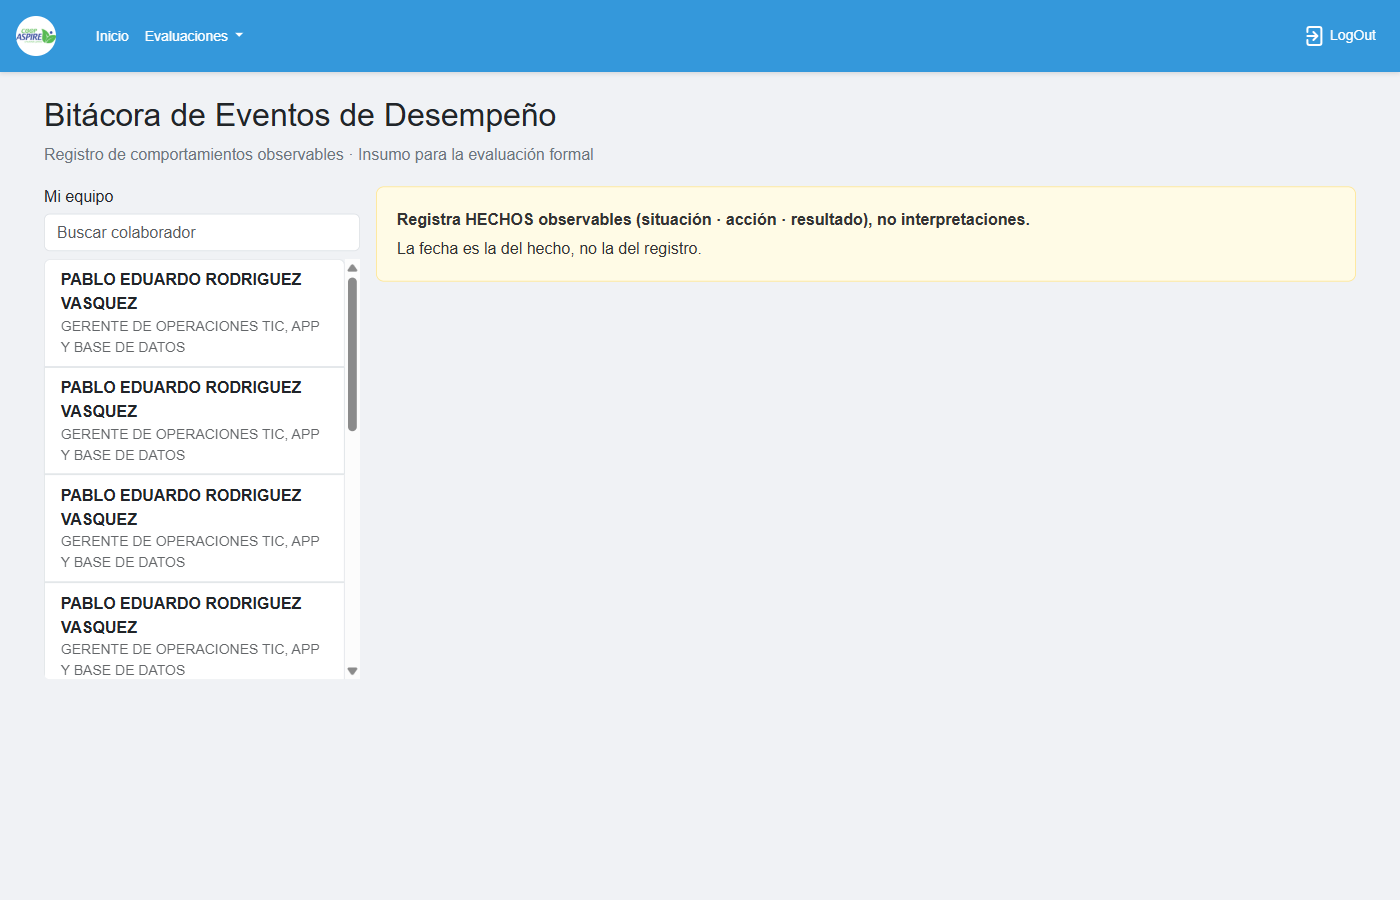
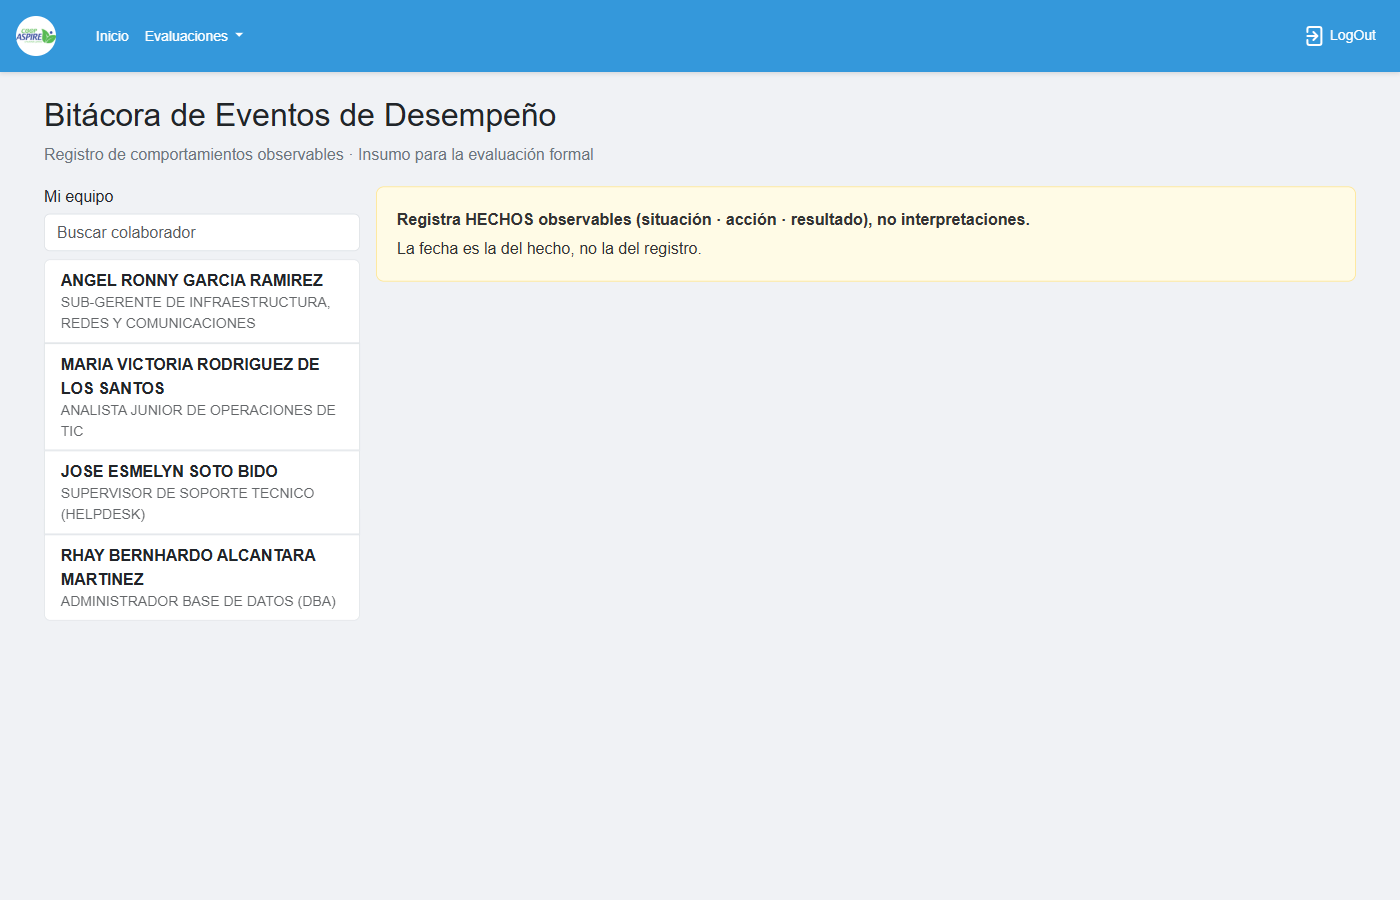
fix(bitacora): equipo sin duplicados ni el propio supervisor; enlace del reporte para supervisores; auditoria Playwright 22/22
La vista Empleados repite filas por secuencial (Pablo aparecia 5 veces en su
propio equipo). El menu Reportes es solo admin: el supervisor entra por
Evaluaciones -> Reporte de mi Bitacora. Auditoria contra
evaluacionempleado-prueba (main.f938525e) con prodriguez: 22 verificaciones en
verde, incluido el resumen dentro de la evaluacion y el reporte con detalle.

Claude-Session: https://claude.ai/code/session_01B2KT1RPvarE3BHkGAT2y8J

Changed region(s): [[0.0307, 0.28, 0.2764, 0.7467]]

diff --git a/e2e/bitacora-eventos.spec.js b/e2e/bitacora-eventos.spec.js
@@ -194,8 +194,12 @@ test('Bitácora de Eventos — Fase 3', async ({ page }) => {
   const fueEval = await navMenu(page, 'Evaluaciones', 'Evaluar Equipo');
   await page.waitForTimeout(3000); await cerrarSwal(page);
   if (fueEval) {
-    const card = page.locator('app-card-empleado, .card').filter({ hasText: new RegExp(COLAB, 'i') }).first();
-    const btnEval = card.locator('button').filter({ hasText: /Evaluar|Continuar|Ver/i }).first();
+    const card = page.locator('app-card-empleado, table tbody tr').filter({ hasText: new RegExp(COLAB, 'i') }).first();
+    for (let i = 0; i < 20 && await card.count() === 0; i++) { await page.waitForTimeout(1000); }
+    const btnEval = card.locator('button').filter({ hasText: /Evaluar/i }).first();
+    for (let i = 0; i < 15 && await btnEval.count() === 0; i++) { await page.waitForTimeout(1000); }
+    await shot(page, 'evaluar-equipo');
+    if (await btnEval.count() === 0) { nota(`La tarjeta de ${COLAB} no muestra "Evaluar Empleado" (estado de la evaluación no editable por el supervisor)`); }
     if (await btnEval.count() > 0) {
       await btnEval.click(); await page.waitForTimeout(5000); await cerrarSwal(page);
       const resumenes = page.locator('app-bitacora-resumen');
@@ -210,6 +214,29 @@ test('Bitácora de Eventos — Fase 3', async ({ page }) => {
       await cerrar.click().catch(() => null); await page.waitForTimeout(800);
     } else { nota('No se encontró el botón de evaluar del colaborador en Evaluar Equipo; se omite la verificación del resumen'); }
   }
+
+  // 8b. Reporte de bitácora (menú Reportes)
+  let fueRep = await navMenu(page, 'Evaluaciones', 'Reporte de mi Bitácora');
+  if (!fueRep) { fueRep = await navMenu(page, 'Reportes', 'Reporte Bitácora'); }
+  await page.waitForTimeout(3500); await cerrarSwal(page);
+  if (fueRep && /ReporteBitacora/i.test(page.url())) {
+    const filasRep = await page.locator('table tbody tr').count();
+    const tarjetas = await page.locator('.tarjeta-total').count();
+    await shot(page, 'reporte-equipo');
+    if (tarjetas === 7 && filasRep > 0) { ok(`Reporte de bitácora: ${tarjetas} tarjetas de totales y ${filasRep} filas de equipo`); }
+    else { issue(`Reporte de bitácora: ${tarjetas} tarjetas, ${filasRep} filas`); }
+    const filaCol = page.locator('table tbody tr').filter({ hasText: new RegExp(COLAB, 'i') }).first();
+    const ver = filaCol.locator('button').filter({ hasText: 'Ver' }).first();
+    if (await ver.count() > 0) {
+      await ver.click(); await page.waitForTimeout(2500); await cerrarSwal(page);
+      const det = await page.locator('.detalle').count();
+      const compFilas = await page.locator('.competencia-fila').count();
+      await shot(page, 'reporte-detalle');
+      if (det > 0 && compFilas >= 12) { ok(`Detalle del colaborador con ${compFilas} competencias y sus eventos`); } else { issue(`Detalle del reporte: detalle=${det}, competencias=${compFilas}`); }
+      const conMarca = (await page.locator('.detalle').textContent().catch(() => '') || '').includes(MARCA);
+      if (conMarca) { ok('El evento de prueba aparece en el detalle del reporte'); } else { nota('El evento de prueba no aparece en el detalle (revisar rango por defecto)'); }
+    } else { issue(`El reporte no tiene fila para ${COLAB} o falta el botón Ver`); }
+  } else { issue(`No se llegó a /ReporteBitacora (url: ${page.url()})`); }
 
   // 9. Eliminación y limpieza
   await navMenu(page, 'Evaluaciones', 'Bitácora'); await page.waitForTimeout(2500);

diff --git a/src/app/Views/Components/navmenu/navmenu.component.html b/src/app/Views/Components/navmenu/navmenu.component.html
@@ -39,6 +39,7 @@
             <li><a class="dropdown-item" (click)="precionado()" routerLink="/Evaluacion">AutoEvaluación</a></li>
             <li><a class="dropdown-item" (click)="precionado()" routerLink="/EvaluarSubordinados" *ngIf="empleadoRolController.model.rolId>=1 && empleadoRolController.model.rolId<=2" >Evaluar Equipo</a></li>
             <li><a class="dropdown-item" (click)="precionado()" routerLink="/Bitacora" *ngIf="empleadoRolController.model.rolId>=1 && empleadoRolController.model.rolId<=2" >Bitácora de Eventos</a></li>
+            <li><a class="dropdown-item" (click)="precionado()" routerLink="/ReporteBitacora" *ngIf="empleadoRolController.model.rolId==2" >Reporte de mi Bitácora</a></li>
             <li><a class="dropdown-item" (click)="precionado()" routerLink="/historial-evaluaciones">Historial de Evaluaciones</a></li>
             <!-- <li><a class="dropdown-item" (click)="precionado()" routerLink="/resultado-evaluacion"  >Resultado Evaluacion</a></li>             -->
             <li><a class="dropdown-item" (click)="precionado()" routerLink="/PoliticaEvaluacion" *ngIf="empleadoRolController.model.rolId==1" >Política de Evaluación</a></li>

diff --git a/src/app/Views/Components/Pages/bitacora/bitacora.component.ts b/src/app/Views/Components/Pages/bitacora/bitacora.component.ts
@@ -153,7 +153,13 @@ export class BitacoraComponent implements OnInit {
     const poll = setInterval(() => {
       if (this.empl.arraymodelsubordinados && this.empl.arraymodelsubordinados.length > 0) {
         clearInterval(poll);
-        this.equipo = [...this.empl.arraymodelsubordinados];
+        // La vista Empleados trae filas duplicadas por secuencial y el propio supervisor: se dejan únicos
+        // y se excluye al supervisor de su propia bitácora (PLAN-BITACORA §9.2).
+        const vistos = new Set<number>();
+        this.equipo = this.empl.arraymodelsubordinados.filter(e => {
+          if (!e || !e.secuencial || vistos.has(e.secuencial) || e.secuencial === this.supervisor?.secuencial) { return false; }
+          vistos.add(e.secuencial); return true;
+        });
         terminar();
       }
     }, 300);

diff --git a/Docs/auditoria-bitacora/auditoria.md b/Docs/auditoria-bitacora/auditoria.md
@@ -1,14 +1,14 @@
 # Auditoría Playwright — Bitácora de Eventos (Fase 3)
 
-Fecha: 2026-09-11T17:25:33.190Z
+Fecha: 2026-09-11T17:30:57.915Z
 Usuario: prodriguez · Base: http://192.168.7.222/evaluacionempleado-prueba
-Marcador de los datos de prueba: [audit-mtx881e4]
+Marcador de los datos de prueba: [audit-mtx8eouq]
 
 - ✅ Login correcto; el menú muestra "Bitácora de Eventos" para el rol del usuario
 - ℹ URL tras el clic: http://192.168.7.222/evaluacionempleado-prueba/Bitacora · rol en localStorage: 2
 - ✅ Ruta /Bitacora cargada
 - ✅ Guía "hechos, no interpretaciones" visible antes de elegir colaborador
-- ✅ Equipo cargado: 10 colaborador(es)
+- ✅ Equipo cargado: 4 colaborador(es)
 - ✅ Colaborador "ALCANTARA" seleccionado
 - ✅ Cabecera del colaborador con conteos por tipo
 - ℹ Eventos visibles antes de la prueba: 0
@@ -20,5 +20,9 @@ Marcador de los datos de prueba: [audit-mtx881e4]
 - ✅ Badge de tipo "Iniciativa" en la tarjeta
 - ✅ Filtro por tipo Conducta oculta el evento de tipo Iniciativa
 - ✅ Edición aplicada: impacto Alto → Bajo
-- ℹ No se encontró el botón de evaluar del colaborador en Evaluar Equipo; se omite la verificación del resumen
+- ✅ 11 resúmenes de bitácora incrustados en las competencias; 2 con eventos
+- ✅ Despliegue de eventos desde la competencia
+- ✅ Reporte de bitácora: 7 tarjetas de totales y 5 filas de equipo
+- ✅ Detalle del colaborador con 12 competencias y sus eventos
+- ✅ El evento de prueba aparece en el detalle del reporte
 - ✅ Evento eliminado (borrado lógico) y fuera de la lista
